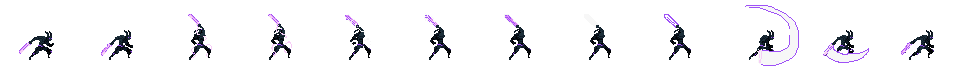
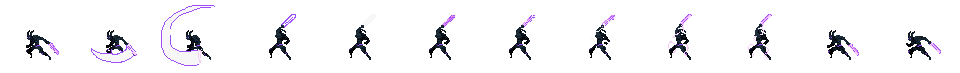
boss attack and sprite level correct

diff --git a/src/GameScene.js b/src/GameScene.js
@@ -111,18 +111,18 @@ class GameScene extends Scene {
 
     // boss
     this.load.spritesheet('bossIdle',
-      'assets/boss2/boss2.png',
-      { frameWidth: 80, frameHeight: 54 }
+      'assets/boss2/boos.png',
+      { frameWidth: 80, frameHeight: 73 }
     );
 
     this.load.spritesheet('bossRunRight',
-      'assets/boss2/bossRunRight.png',
-      { frameWidth: 80, frameHeight: 54 }
+      'assets/boss2/bossRunRight2.png',
+      { frameWidth: 80, frameHeight: 73 }
     );
 
     this.load.spritesheet('bossRunLeft',
-      'assets/boss2/bossRunLeft.png',
-      { frameWidth: 80, frameHeight: 54 }
+      'assets/boss2/bossRunLeft2.png',
+      { frameWidth: 80, frameHeight: 73 }
     );
 
     this.load.spritesheet('bossAttackLeft',
@@ -592,7 +592,7 @@ class GameScene extends Scene {
       boss.setScale(1.5);
       boss.setBounce(0.2);
       boss.setSize(10, 10, true);
-      boss.setOffset(25, 30);
+      boss.setOffset(25, 50);
       boss.enableBody = true;
        // this.enemy2.body.velocity.x = 80;
       // boss.setCollideWorldBounds(true);
@@ -640,7 +640,7 @@ class GameScene extends Scene {
       this.anims.create({
           key: 'bossAttackRight',
           frames: this.anims.generateFrameNumbers('bossAttackRight', { start: 11, end: 0 }),
-          frameRate: 1,
+          frameRate: 15,
           repeat: -1 // or the desired number of repeats
       });
 

diff --git a/src/Boss.js b/src/Boss.js
@@ -58,6 +58,7 @@ export default class Boss extends Phaser.Physics.Arcade.Sprite {
 
               if (length < 100 && normalizedX < 0 && !this.bossAttack) {
                 this.anims.play('bossAttackLeft', true);
+                console.log('attacking left');
 
                 const delayBeforeNextAttack1 = 700; // 1 second delay
                 // Schedule a callback function after the delay
@@ -77,6 +78,7 @@ export default class Boss extends Phaser.Physics.Arcade.Sprite {
                 // console.log('attacking');
               } else if (length < 100 && normalizedX > 0 && !this.bossAttack) {
                 this.anims.play('bossAttackRight', true);
+                console.log('attacking right');
 
                 const delayBeforeNextAttack1 = 700; // 1 second delay
                 // Schedule a callback function after the delay
